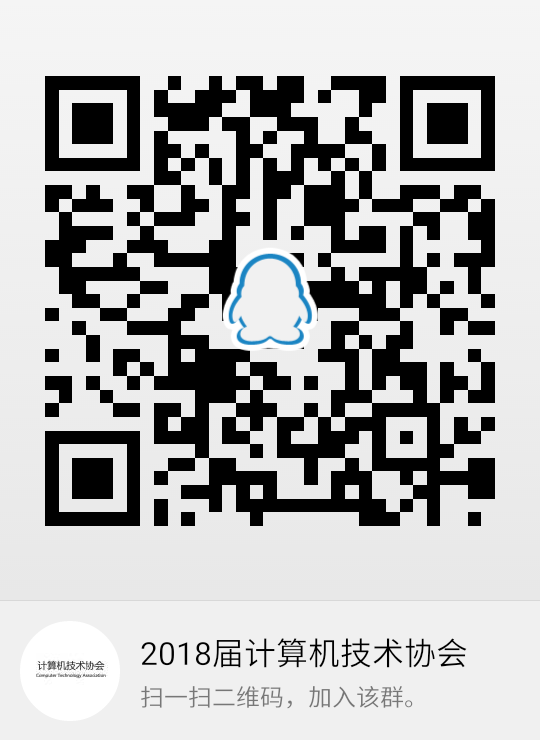
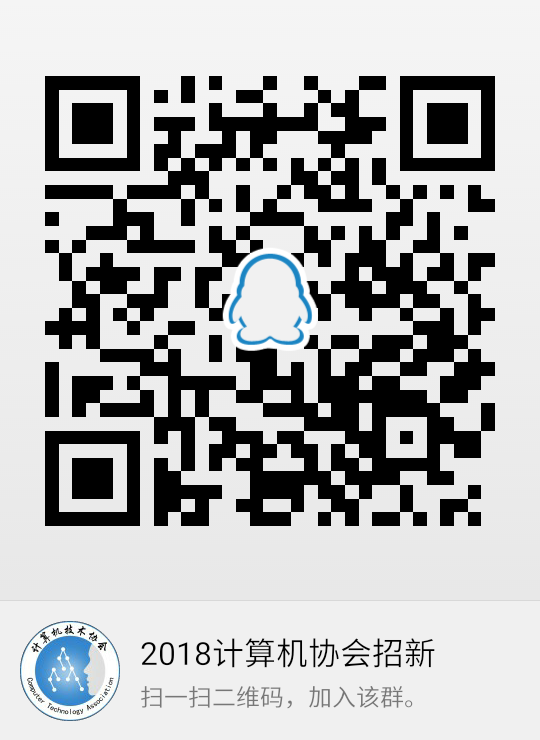
ok

Changed region(s): [[0.0593, 0.0932, 0.9185, 0.7149], [0.0296, 0.8392, 0.237, 0.9946], [0.3852, 0.8392, 0.8593, 0.9014]]

diff --git a/public/js/crn.js b/public/js/crn.js
@@ -79,6 +79,7 @@
 				success:function(data){
 					if(data.text=="ok"){
 						yy_init("提交成功，请等待邮箱通知结果");
+						location.href = "/act/success.html";
 					}else if(data.text=="re_phone"){
 						yy_init("该手机号已被注册");
 					}else if(data.text=="re_email"){

diff --git a/resources/views/act/success.blade.php b/resources/views/act/success.blade.php
@@ -12,8 +12,8 @@
 @include('./../common/navigation')
 
 <div class="ca_success_container">
-	<h1>恭喜你报名成功。</h1><br />
-	请加群603987935。学习是在群里展开的噢。<br /><br />
+	<h1>恭喜你成功提交申请。</h1><br />
+	请加群624128312。学习是在群里展开的噢。<br /><br />
 	更多信息我们已经发送至您的邮箱，请注意查收，若是没有收到，请在垃圾箱查看是否有。
 	QQ邮箱个人过滤器十分神奇，他简直就是智障。<br /><br />带来不便请谅解，谢谢。<br />
 	也可以扫二维码加群：<br /><br />

diff --git a/app/Http/routes.php b/app/Http/routes.php
@@ -26,7 +26,7 @@ Route::post('crn/handle.html', 'CrnController@handle');
 	// 算法入门报名页面
 	// Route::get('act/algorithm.html', 'ActController@algorithm');
 	// Route::post('act/algorithmHandle.html', 'ActController@algorithmHandle');
-	// Route::get('act/success.html', 'ActController@success');
+	Route::get('act/success.html', 'ActController@success');
 	Route::get('act/code.html', 'ActController@codeOnline');
 	// 新生班级查询
 	Route::get('act/findClass.html', 'ActController@findClass');

diff --git a/resources/views/email/crn.blade.php b/resources/views/email/crn.blade.php
@@ -2,7 +2,7 @@
 亲爱的{{$name}}：<br />
 假如你收到了这封邮件，<br />
 那么恭喜你已经成功提交入会申请，<br />
-QQ群号是603987935，<br />
+QQ群号是624128312，<br />
 当然也支持扫一扫，下面是二维码：<br />
 （若是二维码无法查看请点击信任此发件人）<br/>
 <img src="<?php echo $message->embed($img); ?>" width="300px"/>
